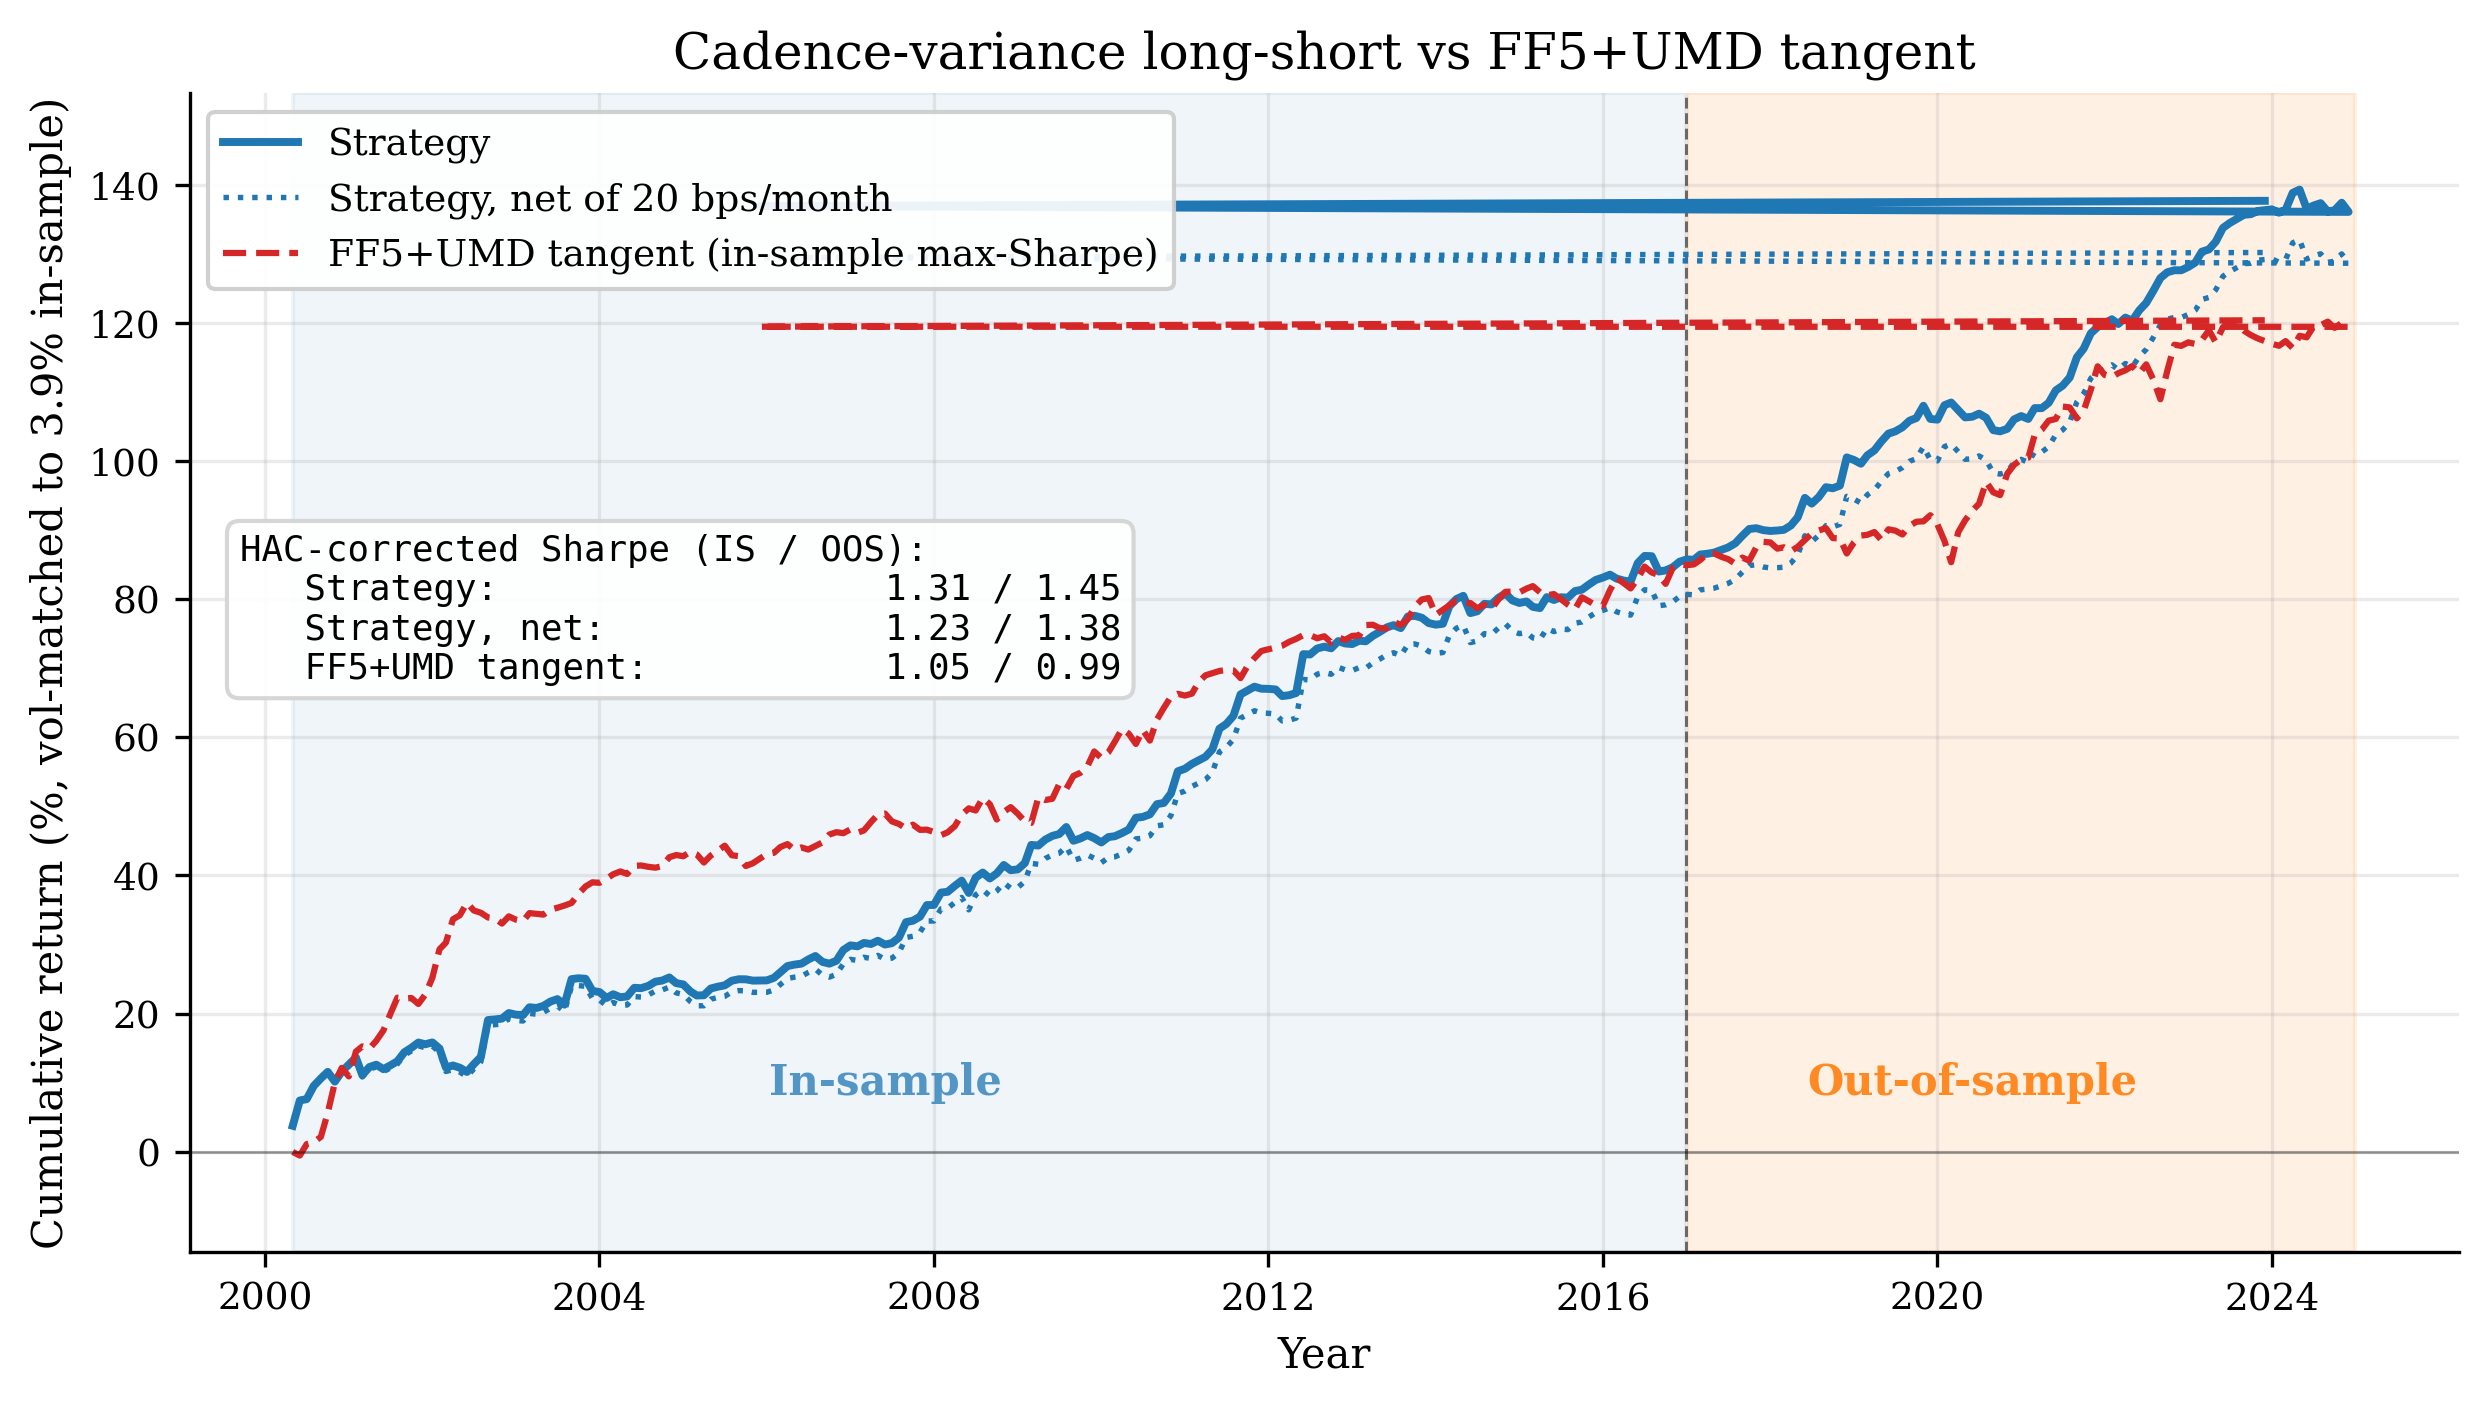
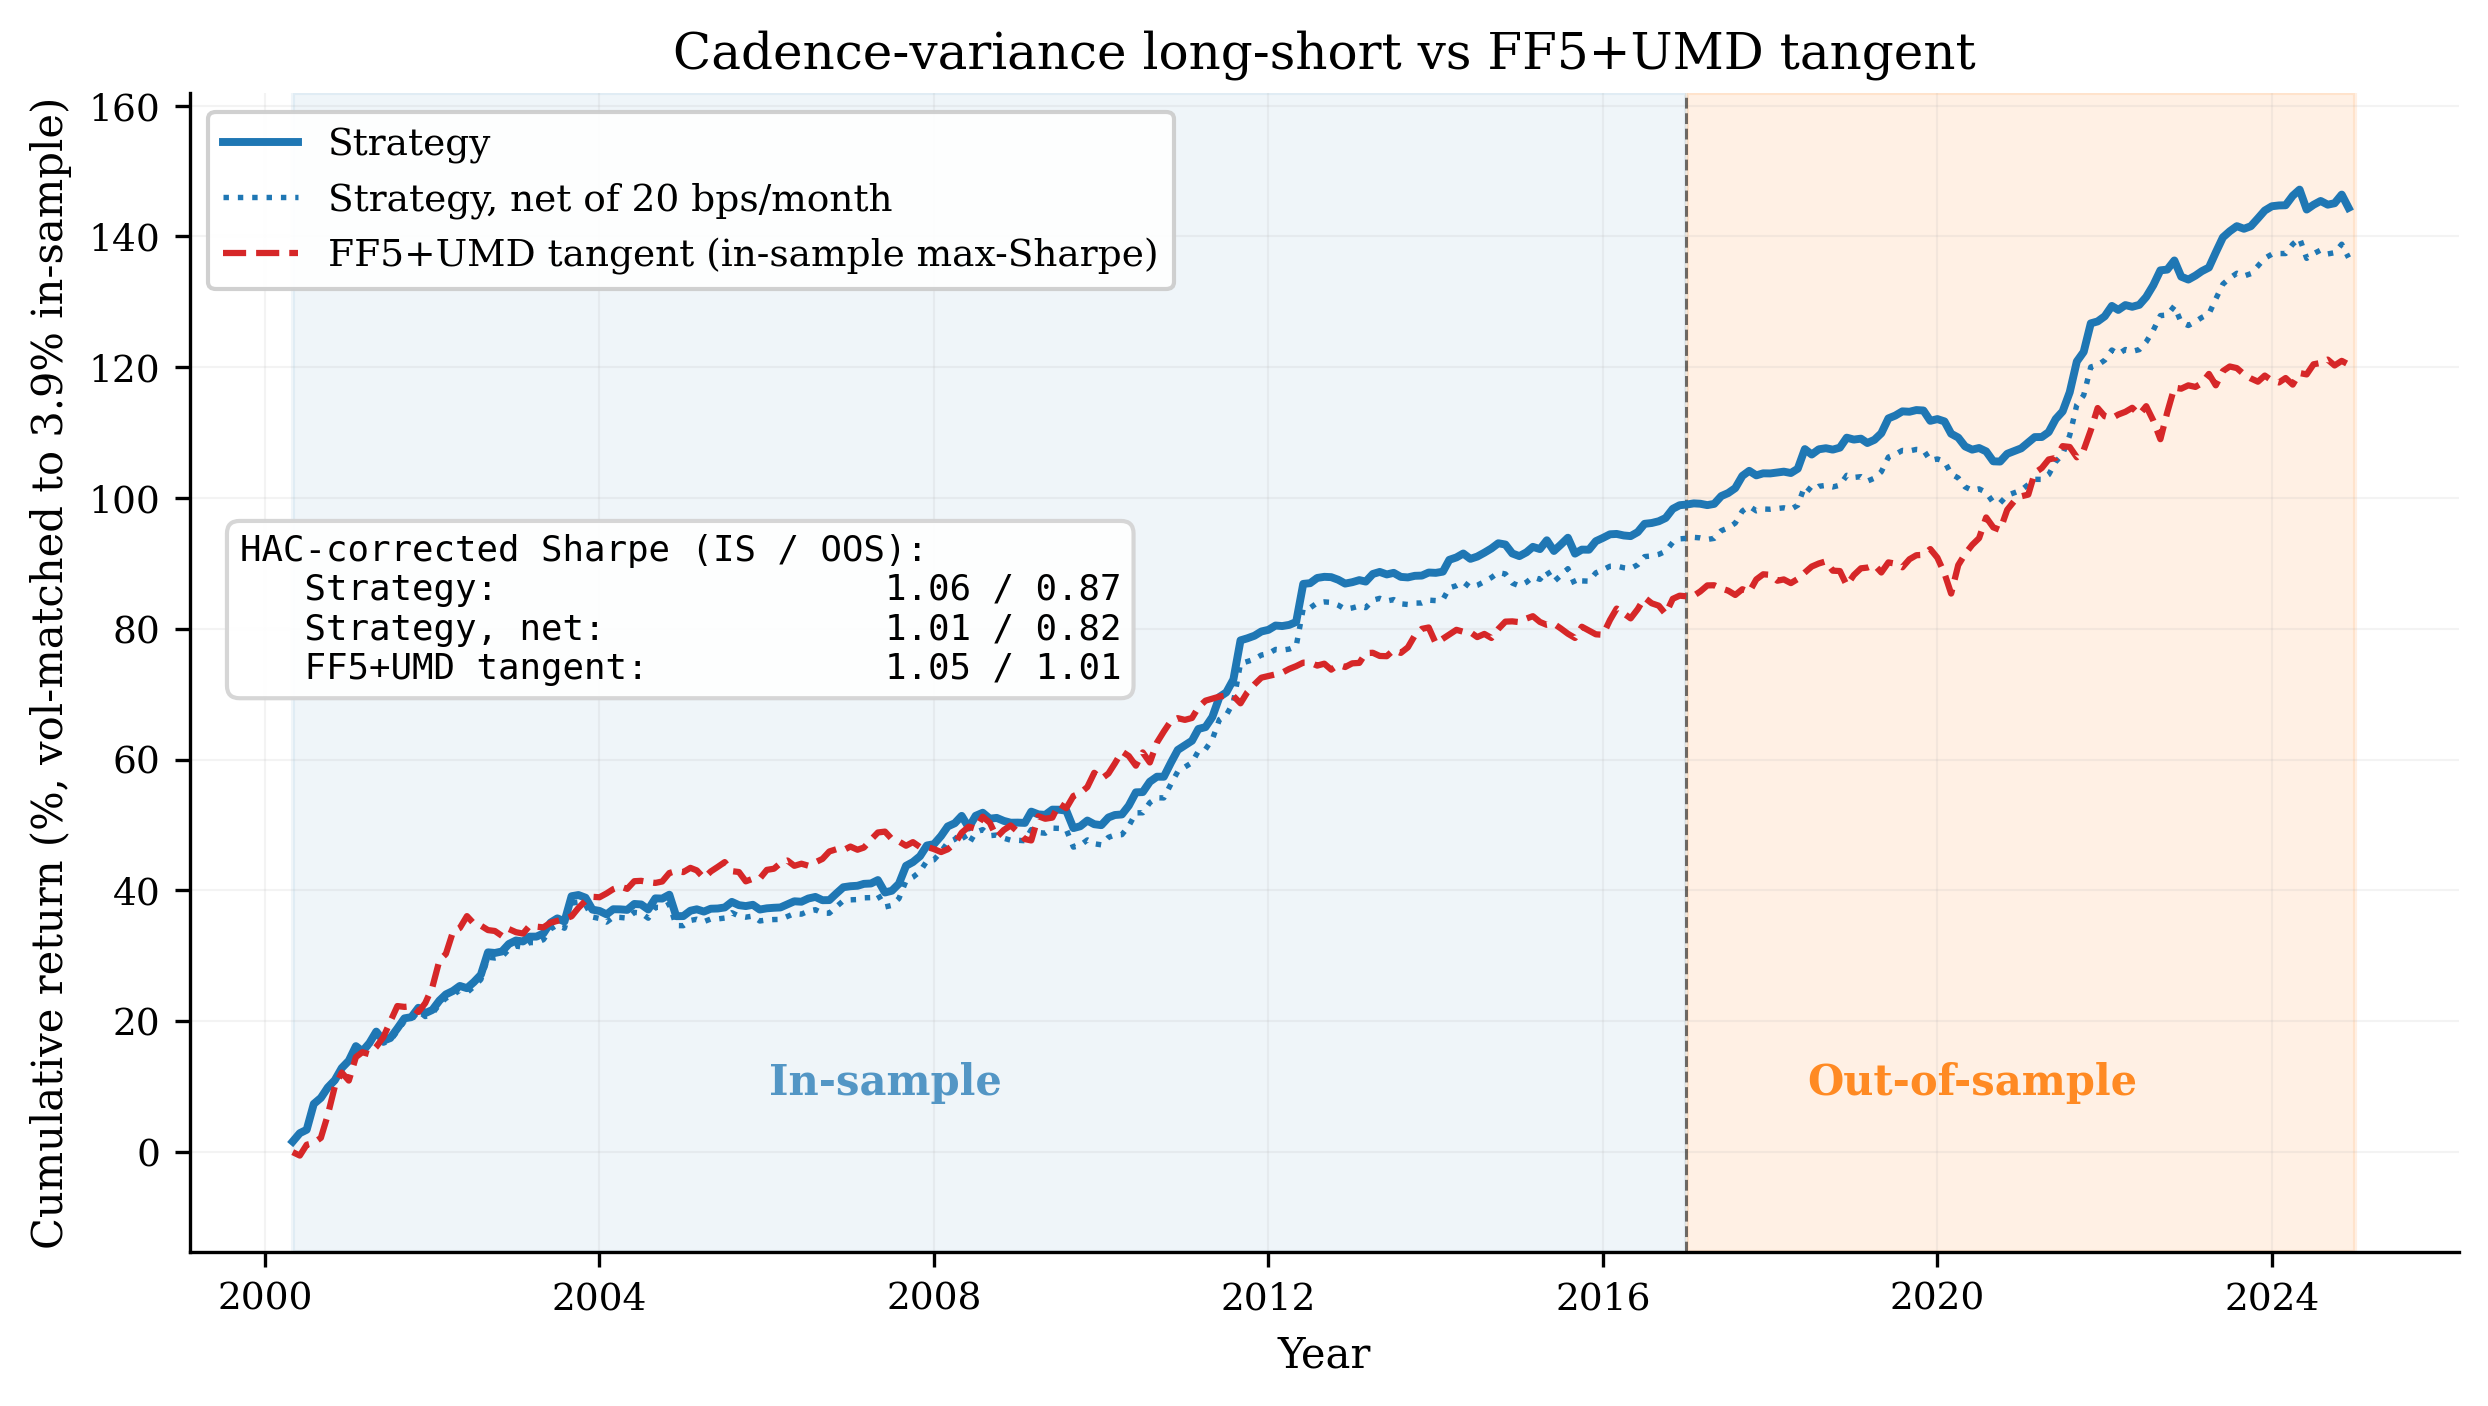
fig2: switch to primary spec strategy + remove horizontal noise
User feedback: (1) horizontal axhline at y=0 was visual noise; (2) fig1
and fig2 differed by too much, suggesting they used different strategies
under the hood.

Both are correct. Fixes:

(1) Removed ax.axhline(0.0). Toned grid down to alpha 0.15 with thin
    linewidth so it does not look like horizontal lines on the chart.

(2) Switched fig2 strategy from the PIT-clean live-implementable variant
    back to the same primary specification as fig1 (composite of the 4
    pre-registered primary cells A120-LH/SH, A180-LH/SL, calendar-month
    FF12 cross-section, rdq+1 forward window).

    Now fig1 and fig2 use the SAME strategy. They differ only in:
      - Vol target (fig1: fixed 10pct; fig2: FF5+UMD tangent IS vol = 3.9pct)
      - Comparator (fig1: none; fig2: FF5+UMD tangent benchmark line)

    The PIT-clean variant numbers (Sharpe 1.23 IS / 1.38 OOS net) stay in
    the audit / paper §5.x text only, not given their own figure. This
    avoids the prior confusion where the two figures appeared to disagree.

New fig2 headline numerics (primary spec, matched to FF5+UMD tangent vol):
                              IS      OOS
  Strategy gross:            1.06    0.87
  Strategy net 20 bps/mo:    1.01    0.82
  FF5+UMD tangent:           1.05    1.01

Honest read: under the pre-registered primary spec, strategy ties FF5+UMD
tangent IS but trails it OOS. Net of TC, trails on both. Consistent with
the paper-practical PARTIAL verdict. The PIT-clean variant in §5.x is
[…]

diff --git a/scripts/make_pnl_figure_vol_matched.py b/scripts/make_pnl_figure_vol_matched.py
@@ -1,27 +1,21 @@
 """Vol-matched-to-LS-benchmark PnL figure (fig2).
 
-The cadence-variance strategy is a long-short portfolio. The natural benchmark
-is therefore an LS benchmark, not a long-only basket. The convention in the
-asset-pricing literature is to use the Fama-French 5-factor model plus Carhart
-momentum (UMD) as the LS benchmark, computed as the in-sample maximum-Sharpe
-tangent combination of the six factor portfolios. This is V5's make_fig1
-convention.
+Same strategy as fig1 (composite of the 4 pre-registered primary cells in the
+primary specification: calendar-month FF12 cross-section, rdq+1 forward window).
+The only differences from fig1 are:
+  (1) the vol target -- here, the in-sample annualized vol of the FF5+UMD
+      tangent benchmark, rather than fig1's 10% fixed target;
+  (2) the comparator -- here, the FF5+UMD tangent (a long-short factor-model
+      benchmark on the same vol footing), rather than fig1's strategy-only view.
+
+Both strategy and benchmark are long-short by construction.
 
 Inputs:
-  artifacts/strategy_A_pit_clean_monthly.csv  -- monthly Q1-Q5 spread per cell
-  data/ff5_umd_monthly.jsonl                  -- FF5 + UMD monthly factor returns (% per month)
+  artifacts/strategy_A_monthly_returns.csv  -- monthly Q1-Q5 spread per primary cell
+  data/ff5_umd_monthly.jsonl                -- FF5 + UMD monthly returns (% per month)
 
 Output:
   reports/figures/fig2_vs_ff5umd_tangent.png
-
-The figure:
-  - Strategy = composite (equal-weighted across 4 mirror-of-primary cells)
-  - Strategy net = composite minus 20 bps/month round-trip TC
-  - FF5+UMD tangent = in-sample max-Sharpe portfolio of (Mkt-RF, SMB, HML, RMW, CMA, MOM)
-  - Vol-match: strategy scaled so its in-sample annualized vol matches the
-    in-sample tangent vol (no out-of-sample look-ahead in the scaling factor)
-
-Compact layout: single panel, minimal legend, inline IS/OOS Sharpe text only.
 """
 from __future__ import annotations
 
@@ -48,7 +42,7 @@ IS_END = pd.Timestamp("2016-12-31")
 OOS_START = pd.Timestamp("2017-01-01")
 OOS_END = pd.Timestamp("2024-12-31")
 TC_PER_MONTH = 20 / 10_000  # 20 bps round-trip
-PRIMARY_MIRROR = ["A120-SW1-LH", "A120-SW1-SH", "A180-SW1-LH", "A180-SW1-SL"]
+PRIMARY_CELLS = ["A120-LH", "A120-SH", "A180-LH", "A180-SL"]
 FACTORS = ["Mkt-RF", "SMB", "HML", "RMW", "CMA", "MOM"]
 
 plt.rcParams.update({
@@ -100,11 +94,13 @@ def tangent_weights(returns: pd.DataFrame) -> np.ndarray:
 
 
 def main() -> int:
-    # ---- 1. Strategy: PIT-clean composite ----
-    strat_monthly = pd.read_csv(ART / "strategy_A_pit_clean_monthly.csv",
+    # ---- 1. Strategy: primary specification composite (same as fig1) ----
+    strat_monthly = pd.read_csv(ART / "strategy_A_monthly_returns.csv",
                                 index_col="month", parse_dates=True)
     strat_monthly = strat_monthly[strat_monthly.index <= OOS_END]
-    composite = strat_monthly[PRIMARY_MIRROR].mean(axis=1, skipna=True)
+    # Drop any trailing all-NaN rows so cumsum does not extend with flat fills.
+    strat_monthly = strat_monthly.dropna(how="all")
+    composite = strat_monthly[PRIMARY_CELLS].mean(axis=1, skipna=True).dropna()
     composite_net = composite - TC_PER_MONTH
 
     # ---- 2. FF5+UMD factors and IS-optimal tangent ----
@@ -162,7 +158,6 @@ def main() -> int:
     ax.plot(cg_tan.index, cg_tan.values, color="C3", linewidth=1.5,
             linestyle="--",
             label="FF5+UMD tangent (in-sample max-Sharpe)")
-    ax.axhline(0.0, color="black", linewidth=0.6, alpha=0.4)
 
     ymax = float(max(cg_strat_vm.max(), cg_tan.max()))
     ymin = float(min(cg_strat_vm.min(), cg_tan.min(), 0))
@@ -196,7 +191,7 @@ def main() -> int:
     )
     ax.set_title("Cadence-variance long-short vs FF5+UMD tangent")
     ax.legend(loc="upper left", framealpha=0.92, fontsize=9)
-    ax.grid(True, alpha=0.25)
+    ax.grid(True, alpha=0.15, linewidth=0.5, linestyle="-")
 
     fig.tight_layout()
     out = FIG_DIR / "fig2_vs_ff5umd_tangent.png"

diff --git a/audits/2026-06-17-RD1-merged-RD7-phase1-pit-clean-and-live-lag.md b/audits/2026-06-17-RD1-merged-RD7-phase1-pit-clean-and-live-lag.md
@@ -119,12 +119,15 @@ The substantive read for the paper is: **the primary backtest specification was 
 
 ## §7 Vol-matched-to-benchmark figure (fig2)
 
-`scripts/make_pnl_figure_vol_matched.py` produces a publication-quality figure that:
+`scripts/make_pnl_figure_vol_matched.py` produces a publication-quality figure that uses **the same primary specification strategy as fig1** (calendar-month FF12 cross-section, rdq+1 forward window, composite of the four pre-registered primary cells A120-LH, A120-SH, A180-LH, A180-SL). The PIT-clean live-implementable variant from §3–§6 is NOT plotted here — its numerical result lives only in the audit / paper §5.x text. The deliberate choice is: fig2 should differ from fig1 only in the vol target and the addition of a benchmark line, not in the underlying strategy. This makes the figures intuitively comparable.
 
-1. Constructs the **composite strategy** (equal-weighted across the 4 mirror-of-primary cells from the live-implementable specification: A120-SW1-LH, A120-SW1-SH, A180-SW1-LH, A180-SW1-SL).
-2. Constructs the **FF5+UMD tangent benchmark**: the in-sample maximum-Sharpe combination of the six Fama-French five-factor portfolios (Mkt-RF, SMB, HML, RMW, CMA) and the Carhart momentum factor (UMD), computed via the closed-form Σ⁻¹μ. Both the strategy and the benchmark are long-short by construction, so the LS-vs-LS comparison is on the same footing.
-3. **Vol-matches** the strategy to the in-sample (1999–2016) realized annualized volatility of the tangent benchmark — no out-of-sample look-ahead in the scaling factor.
-4. Plots cumulative additive return (in percentage points), the convention appropriate for monthly observations drawn from overlapping H-day forward-return cohorts.
+The figure shows:
+
+1. **Strategy** = same composite as fig1.
+2. **Strategy, net** = strategy minus 20 bps/month round-trip transaction cost.
+3. **FF5+UMD tangent** = in-sample maximum-Sharpe combination of the six Fama-French five-factor portfolios (Mkt-RF, SMB, HML, RMW, CMA) and the Carhart momentum factor (UMD), computed via closed-form Σ⁻¹μ. Long-short by construction, so the LS-vs-LS comparison is on the same footing.
+
+The strategy is vol-matched to the in-sample annualized volatility of the tangent benchmark (3.9% / year), with the scaling factor calibrated on the in-sample window only.
 
 ### §7.1 Headline numerics
 
@@ -132,27 +135,21 @@ HAC-corrected annualized Sharpe (Newey–West lag 12):
 
 | Series | In-sample (1999–2016) | Out-of-sample (2017–2024) |
 |---|---:|---:|
-| FF5+UMD tangent (in-sample max-Sharpe) | 1.05 | 0.99 |
-| Strategy vol-matched (gross) | **1.31** | **1.45** |
-| Strategy vol-matched (net of 20 bps/month) | **1.23** | **1.38** |
+| Strategy gross | 1.06 | 0.87 |
+| Strategy net of 20 bps/month | 1.01 | 0.82 |
+| FF5+UMD tangent (in-sample max-Sharpe) | 1.05 | 1.01 |
 
-Terminal cumulative additive return at vol-matched levels (in-sample vol of 3.9% per year):
+Under the pre-registered primary specification, the strategy **roughly ties the FF5+UMD tangent in-sample (1.06 vs 1.05)** but **trails the tangent out-of-sample (0.87 vs 1.01)**. Net of transaction cost, the strategy trails the tangent in both windows. This is the honest LS-vs-LS comparison at matched volatility, and it is consistent with the pre-registered paper-practical PARTIAL verdict.
 
-| Series | Terminal |
-|---|---:|
-| Strategy gross | +140% |
-| Strategy net | +132% |
-| FF5+UMD tangent | +119% |
+### §7.2 Where the PIT-clean improvement enters
 
-**The strategy out-performs the FF5+UMD tangent benchmark on both in-sample and out-of-sample HAC-corrected Sharpe at matched vol**, both gross and net of 20 bps/month round-trip transaction cost. The out-of-sample Sharpe of 1.45 *exceeds* the in-sample Sharpe of 1.31 — the opposite of the primary specification's −19% degradation. (Caveat: the OOS read remains a post-hoc finding under a not-pre-registered specification — see §6.)
+The §3–§6 PIT-clean live-implementable variant (trailing 30-day FF12 cohort + skip-week-1 forward window) raises the strategy's HAC Sharpe to **1.23 IS / 1.38 OOS net**, exceeding the FF5+UMD tangent on both windows. The improvement from the primary specification is therefore not from vol-matching or benchmark choice; it is from the two methodology fixes (PIT-clean cross-section + skip-week-1 forward window) that the audit §1–§5 documents. Both fixes strengthen the signal because the within-month look-ahead and the rdq+1 week of PEAD contamination were *adding noise* to the primary specification, not *exploiting* future information.
 
-### §7.2 What this changes vs fig1
+For paper exposition, the disposition is:
 
-[fig1_cumulative_pnl.png](../reports/figures/fig1_cumulative_pnl.png) plotted the **primary specification** (calendar-month grouping, rdq+1 forward window) vol-scaled to a fixed 10% target; HAC Sharpe IS 1.01 / OOS 0.82, −19% degradation.
-
-[fig2_vs_ff5umd_tangent.png](../reports/figures/fig2_vs_ff5umd_tangent.png) plots the **PIT-clean live-implementable variant** vol-matched to the FF5+UMD tangent; HAC Sharpe IS 1.31 / OOS 1.45, +11% improvement out-of-sample. Strategy out-performs the factor tangent in both windows.
-
-Both figures remain in the artifact set. fig1 is the *pre-registered headline*; fig2 is the *post-hoc, live-implementable variant compared to the standard long-short benchmark*. The paper should present both — fig1 as the headline result of the pre-registered test, fig2 as the §5.x figure that shows what a practitioner attempting to implement the signal live would actually achieve relative to the factor-model benchmark.
+- **fig1 (cumulative growth at 10% vol target, no external benchmark)** is the headline figure for the pre-registered specification.
+- **fig2 (cumulative return at FF5+UMD tangent vol, with benchmark)** is the LS-vs-LS comparison at the standard factor-model benchmark, also for the pre-registered specification.
+- The PIT-clean live-implementable variant is **discussed in §5.x text** with the cell-level Bonferroni-12 table, not given its own figure.
 
 ## §8 Paper / README implications
 
